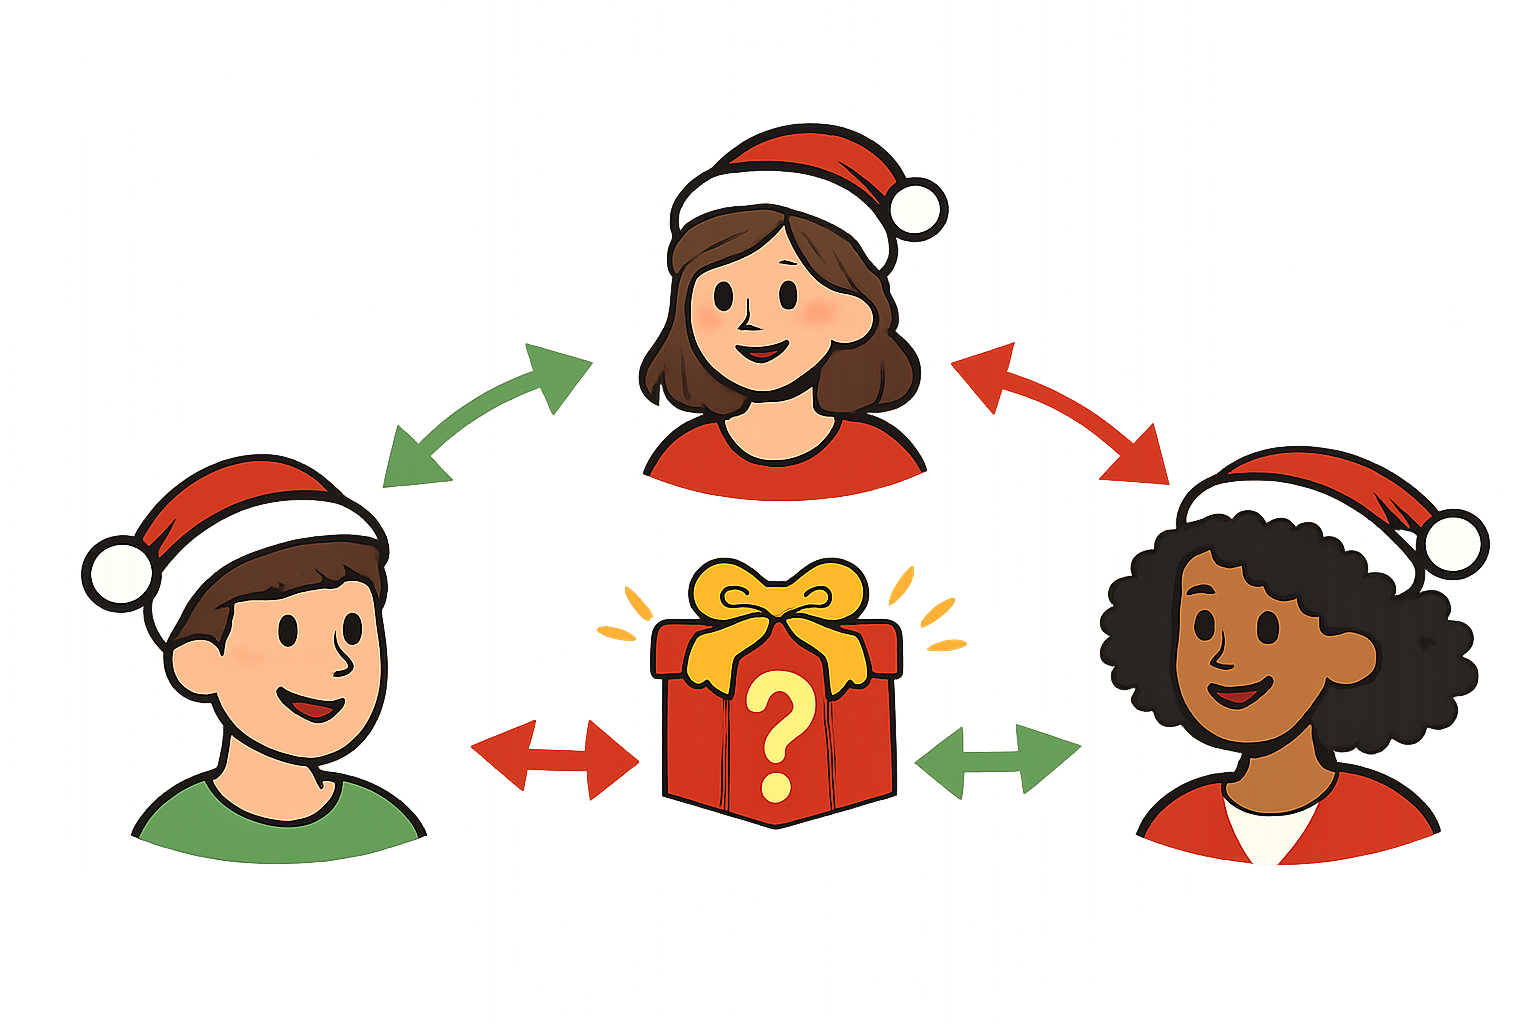
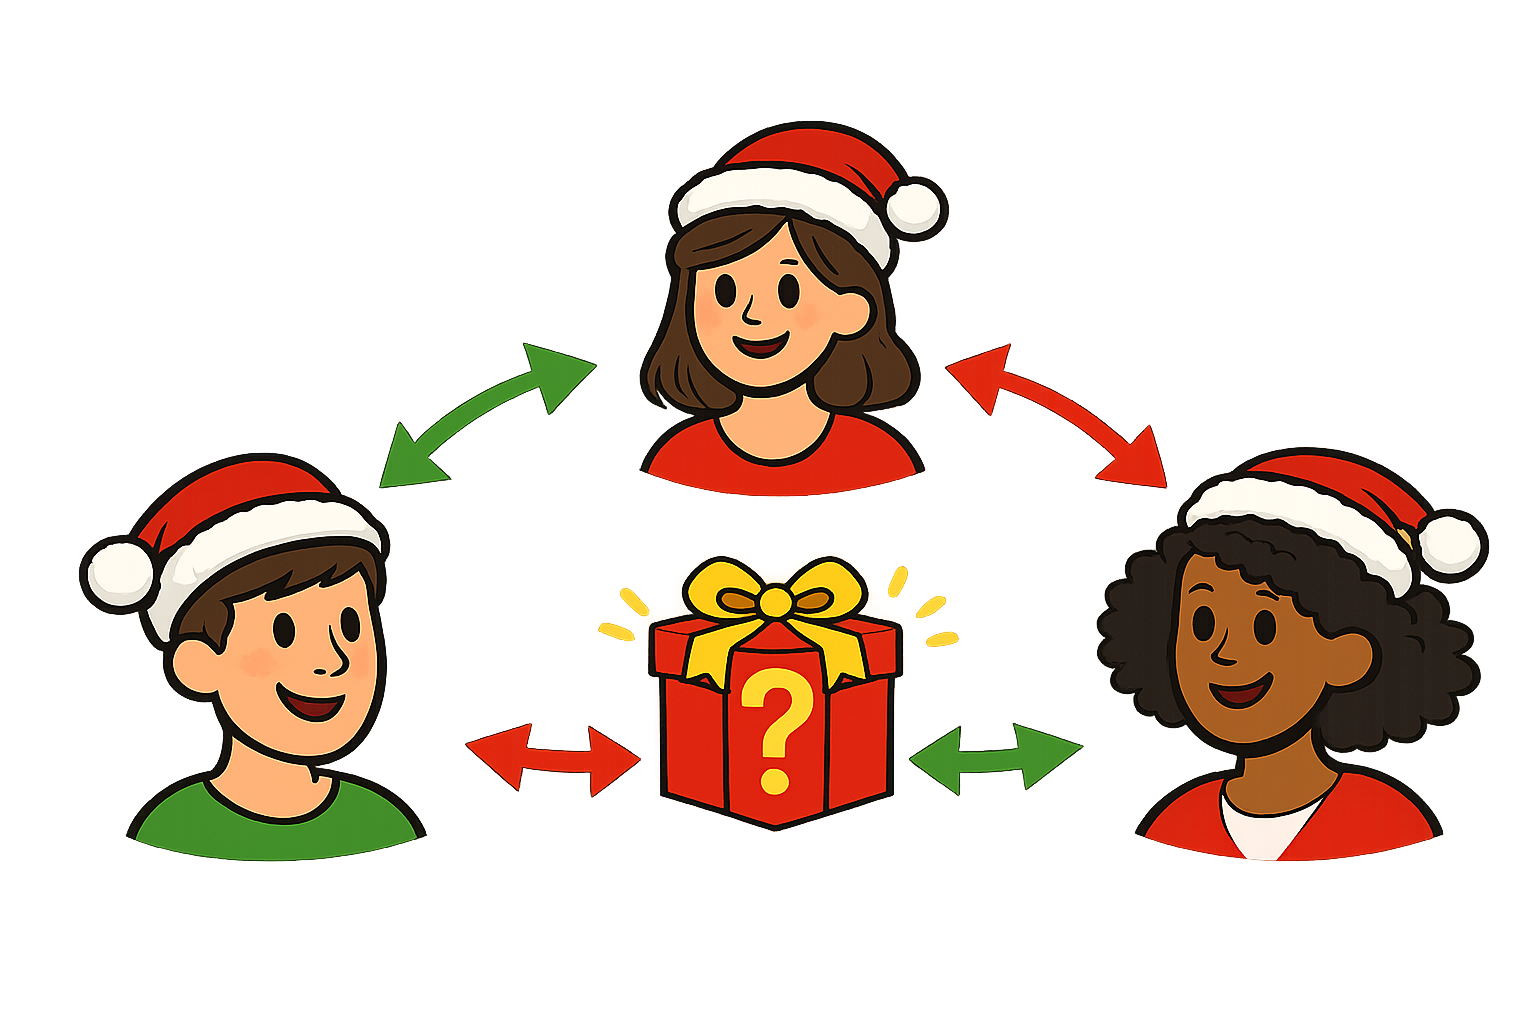
fix blog preview images

diff --git a/app/page.tsx b/app/page.tsx
@@ -7,7 +7,7 @@ export default function Home() {
     <div className="flex flex-col min-h-screen items-center justify-center font-sans">
       <h1>Julianna Messineo</h1>
       <div className="flex flex-wrap gap-2 justify-center">
-        {['React', 'Next JS', 'Golang', 'Tailwind', 'Alpine JS', 'HTMX'].map(
+        {['React', 'Next JS', 'Go', 'Tailwind', 'Alpine JS', 'HTMX'].map(
           tech => (
             <span
               key={tech}

diff --git a/app/blogs/blogPostsConfig.tsx b/app/blogs/blogPostsConfig.tsx
@@ -96,7 +96,7 @@ export const blogPostsConfig: BlogPostConfig[] = [
     preview: (
       <Image
         alt="math puzzle with one piece placed out of bounds"
-        src="/out-of-bounds.png"
+        src="/out-of-bounds-no-bg.png"
         width={300}
         height={200}
       />
